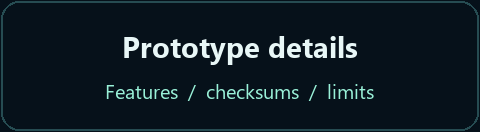
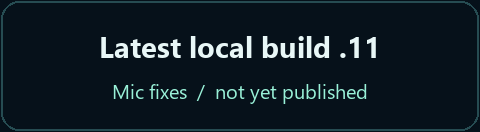
Refresh README with latest local prototype status
Copilot-Session: e4a2585a-8b13-460d-bf1b-07e8f69e1aff

Changed region(s): [[0.1875, 0.2727, 0.7812, 0.4848], [0.2188, 0.6364, 0.7812, 0.7879]]

diff --git a/tools/render_readme.py b/tools/render_readme.py
@@ -227,7 +227,7 @@ def main():
     title.save(ASSETS / "readme-title.png", optimize=True)
     panel("readme-download.png", "Download prototype .7", "Windows x64  /  unsigned")
     panel("readme-guide.png", "Project guide", "Setup  /  workflows  /  architecture")
-    panel("readme-prototype.png", "Prototype details", "Features  /  checksums  /  limits")
+    panel("readme-prototype.png", "Latest local build .11", "Mic fixes  /  not yet published")
     gallery("readme-voices.png", "prototype-voice-profiles.png",
             "A voice that fits your workflow.", "Packaged .7  /  installed voice profiles  /  synthetic test contexts")
     gallery("readme-workspace.png", "prototype-window-controls.png",

diff --git a/README.md b/README.md
@@ -14,7 +14,7 @@
 <p align="center">
   <a href="https://github.com/Zanark/Intercom/releases/tag/v0.1.0-prototype.7"><img src="docs/assets/readme-download.png" alt="Download prototype .7: Windows x64, unsigned. Read the release warnings and verify checksums." width="240" /></a>
   <a href="docs/guide.md"><img src="docs/assets/readme-guide.png" alt="Project guide: setup, workflows, architecture and documentation." width="240" /></a>
-  <a href="docs/prototype.md"><img src="docs/assets/readme-prototype.png" alt="Prototype details: features, checksums and limitations." width="240" /></a>
+  <a href="docs/prototype.md#local-microphone-layout-candidate-010-prototype11"><img src="docs/assets/readme-prototype.png" alt="Latest local prototype .11, not yet published: centered microphone, simplified settings, executable path, checksum and limitations." width="240" /></a>
 </p>
 
 <p align="center">

diff --git a/docs/github-tracking.md b/docs/github-tracking.md
@@ -213,7 +213,7 @@ exact read-back; never refresh them merely to hide a remote edit.
[6 lines of base64/hex data omitted]
 
 These reconciliations used the same saved issue/item identities on
